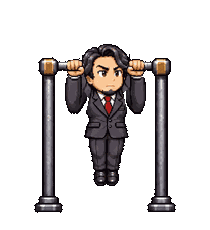
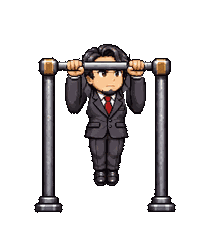
けんすいの絵：横棒を顔の手前に重ね直す（顔が棒に隠れる向き）
Claude-Session: https://claude.ai/code/session_01XSzEsUsUJJUAT4jRasyP5o

Changed region(s): [[0.4, 0.2435, 0.6286, 0.3348]]

diff --git a/筋トレ冒険者ステータス/tools/pullup_bar_in_front.py b/筋トレ冒険者ステータス/tools/pullup_bar_in_front.py
@@ -1,0 +1,46 @@
+"""けんすいのコマ：横棒を キャラの顔・体の手前に かさね直す（手だけは 棒の上に のこす）。
+入力：キャラが棒の手前にいるコマ（4枚）と、キャラなしの鉄棒の絵。出力：out3/pullup-{0..3}.png"""
+import sys
+from pathlib import Path
+from PIL import Image
+d = Path(sys.argv[1]); src = d / sys.argv[2]; bar = Image.open(d / sys.argv[3]).convert("RGBA")
+out = d / "out3"; out.mkdir(exist_ok=True)
+W, H = bar.size; bp = bar.load()
+cols = [x for x in range(W) if any(bp[x, y][3] > 127 for y in range(H))]
+x0, x1 = min(cols), max(cols); mid = (x0 + x1) // 2
+rows = [y for y in range(H) if bp[mid, y][3] > 127]          # 横棒の高さ（まんなかの列で見る）
+y0, y1 = min(rows), max(rows)
+def diffcols(fp):
+    return [x for x in range(x0, x1 + 1) if any(fp[x, y] != bp[x, y] for y in range(y0, y1 + 1))]
+def clusters(xs, gap=3):
+    cs = []
+    for x in xs:
+        if cs and x - cs[-1][1] <= gap: cs[-1][1] = x
+        else: cs.append([x, x])
+    return cs
+frames = [Image.open(src / f"pullup-{i}.png").convert("RGBA") for i in range(4)]
+# 手の位置：コマ0（ぶら下がり。頭は棒の下）で、棒に かさなっている所＝手
+h0 = clusters(diffcols(frames[0].load()))
+left0 = [c for c in h0 if c[1] < mid]; right0 = [c for c in h0 if c[0] > mid]
+print("bar x", x0, x1, "crossbar y", y0, y1, "frame0 hands", h0)
+for i, f in enumerate(frames):
+    fp = f.load(); cs = clusters(diffcols(fp))
+    # まんなか（頭・首）に かかる かたまりは 棒を手前に。左右の かたまり（手）は そのまま
+    lefts = [c for c in cs if c[1] < mid - 8]; rights = [c for c in cs if c[0] > mid + 8]
+    centre = [c for c in cs if c not in lefts and c not in rights]
+    restored = 0
+    for c in centre:
+        a, b = c
+        # 頭と手が つながって 1つの かたまりに なっているときは、コマ0の手の内がわまでに かぎる
+        if left0: a = max(a, max(k[1] for k in left0) + 1) if a <= max(k[1] for k in left0) else a
+        if right0: b = min(b, min(k[0] for k in right0) - 1) if b >= min(k[0] for k in right0) else b
+        for x in range(a, b + 1):
+            for y in range(y0, y1 + 1):
+                if bp[x, y][3] > 127 and fp[x, y] != bp[x, y]: fp[x, y] = bp[x, y]; restored += 1
+        # 棒の すぐ下に 1px の かげ（棒が手前だと わかるように）
+        for x in range(a, b + 1):
+            y = y1 + 1
+            if y < H and fp[x, y][3] > 127 and bp[x, y][3] <= 127:
+                r, g, b_, al = fp[x, y]; fp[x, y] = (int(r * .55), int(g * .55), int(b_ * .6), al)
+    f.save(out / f"pullup-{i}.png")
+    print(i, "clusters", cs, "centre", centre, "restored px", restored)
